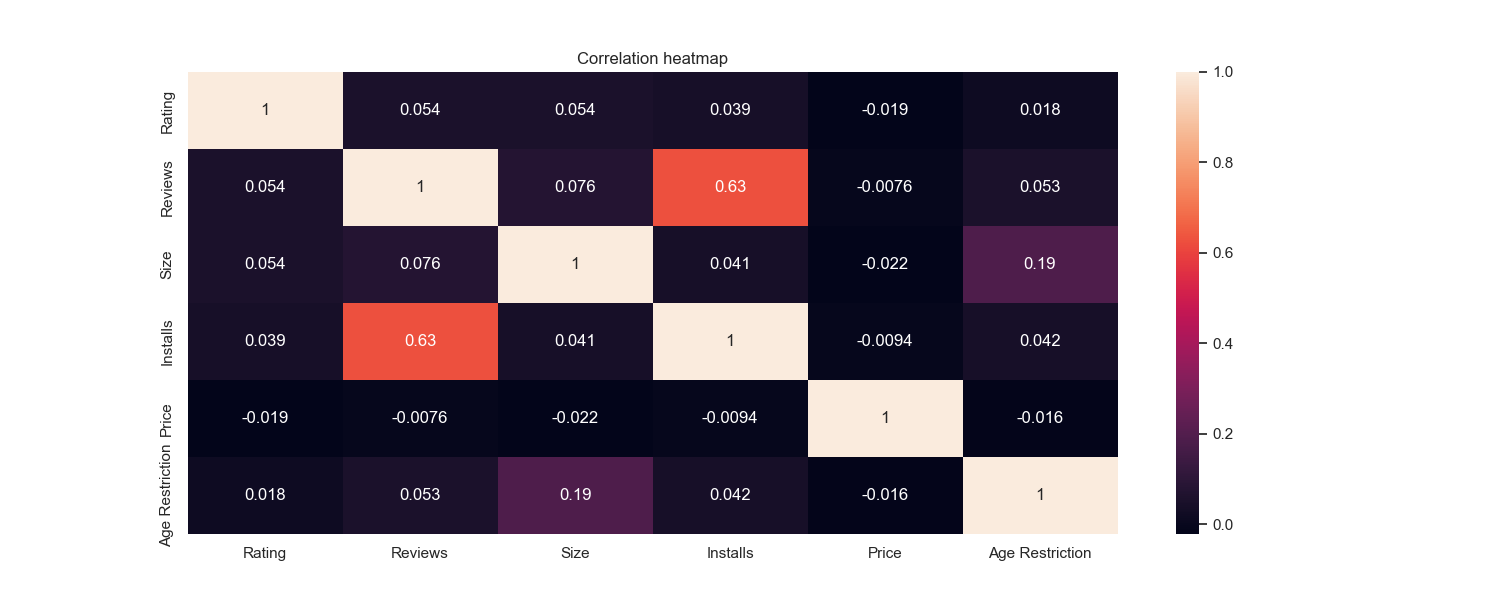
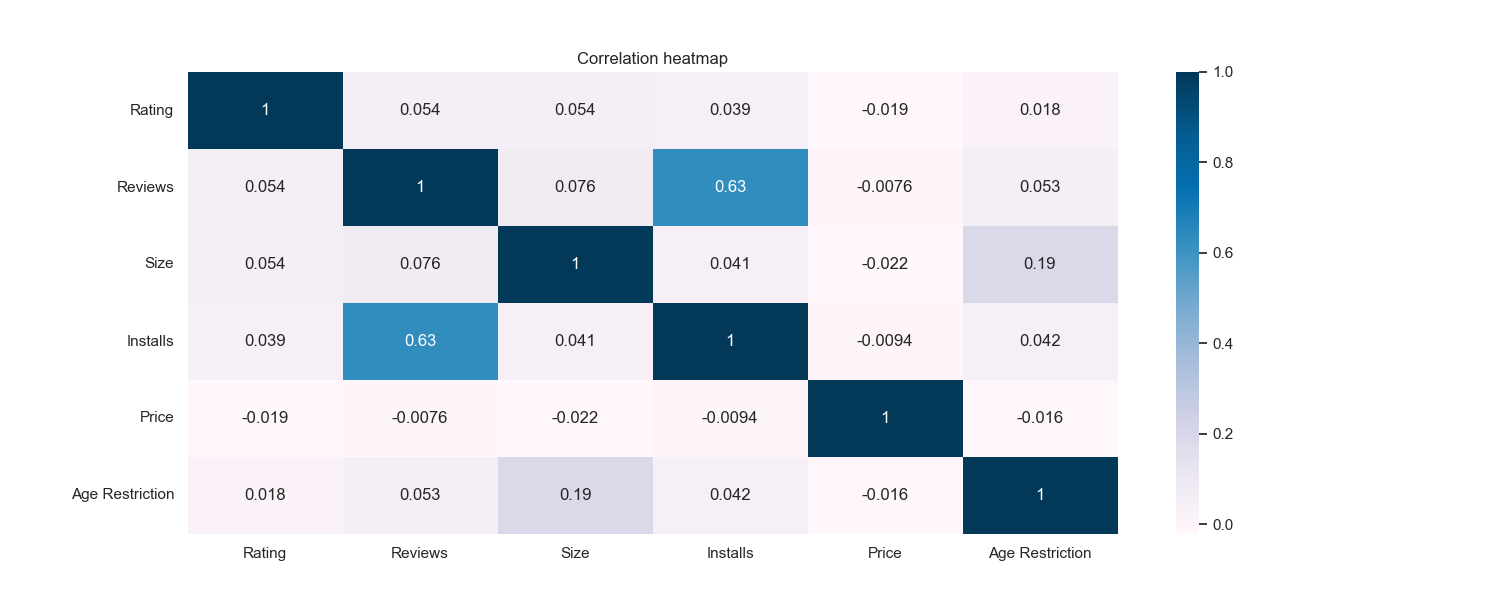
Updating correlation heatmap seaborn

diff --git a/progetto_2/src/DataVisualizer.py b/progetto_2/src/DataVisualizer.py
@@ -13,7 +13,7 @@ class DataVisualizer:
 
     def pipeline(self, df, df_all):
         if self.library == 'seaborn':
-            self.barh_by_grouping(df, column="Rating", group_by="Category", agg='sum')
+            '''self.barh_by_grouping(df, column="Rating", group_by="Category", agg='sum')
             self.scatter_plot(df, 'Installs', 'Reviews')
             self.countplot(df, var='Category', hue='Type')
             self.grouped_rating(df, ["Category", "Type"], "Rating")                          #average Rating devided in free and paid Apps for each Category
@@ -21,12 +21,12 @@ class DataVisualizer:
             self.popularity_score(df)                                                        #top 10 Apps by Popularity (Rating*Installs)
             self.rating_counter(df, "Rating", "Category")                                    #number of Apps in each Category for each Rating range
             self.rating_counter(df, "Rating", "Type")                                        #number of Apps in each Type (free, paid) for each Rating range
-            self.growth_trend(df)
+            self.growth_trend(df)'''
             self.correlation_heatmap(df)
             self.sent_category_hbar(df_all)
 
         elif self.library == 'matplotlib':
-            self.barh_by_grouping(df, column="Rating", group_by="Category", agg='sum')
+            '''self.barh_by_grouping(df, column="Rating", group_by="Category", agg='sum')
             self.scatter_plot(df, 'Installs', 'Reviews')
             self.countplot(df, var='Category', hue='Type')
             self.grouped_rating(df, ["Category", "Type"], "Rating")                          #average Rating devided in free and paid Apps for each Category
@@ -34,7 +34,7 @@ class DataVisualizer:
             self.popularity_score(df)                                                        #top 10 Apps by Popularity (Rating*Installs)
             self.rating_counter(df, "Rating", "Category")                                    #number of Apps in each Category for each Rating range
             self.rating_counter(df, "Rating", "Type") 
-            self.growth_trend(df)
+            self.growth_trend(df)'''
             self.correlation_heatmap(df)
             self.sent_category_hbar(df_all)
 
@@ -387,12 +387,13 @@ class DataVisualizer:
         
         if self.library=='seaborn':
             plt.figure(figsize = (15,6))
-            sns.heatmap(std_df, annot=True)
+            sns.heatmap(std_df, annot=True, cmap="PuBu")
             plt.title('Correlation heatmap')
+            plt.tick_params(axis='y', rotation=0)
             plt.savefig('./database/output/graphs/correlation_heatmap_sns.png')
         else:
             # Create a colormap
-            cmap = plt.get_cmap('magma')
+            cmap = plt.get_cmap('crest')
 
             # Plot the matrix
             fig, ax = plt.subplots(figsize=(15, 6))
@@ -403,7 +404,7 @@ class DataVisualizer:
             yticks = np.arange(0.5, len(std_df.columns), 1)
             ax.set_xticks(xticks, minor=False)
             ax.set_yticks(yticks, minor=False)
-            ax.set_xticklabels(std_df.columns, fontsize=15, rotation=65)
+            ax.set_xticklabels(std_df.columns, fontsize=15, rotation=65, ha='left')
             ax.set_yticklabels(std_df.columns, fontsize=15)
 
             # Set colorbar

diff --git a/progetto_2/main.py b/progetto_2/main.py
@@ -48,4 +48,4 @@ di.save_file(df_all, 'database/output/googleplaystore_sentiment.pkl')
 dv.pipeline(df, df_all)
 
 # Loads PNG graphs based on library
-di.load_image('png', library='seaborn')
+#di.load_image('png', library='seaborn')
